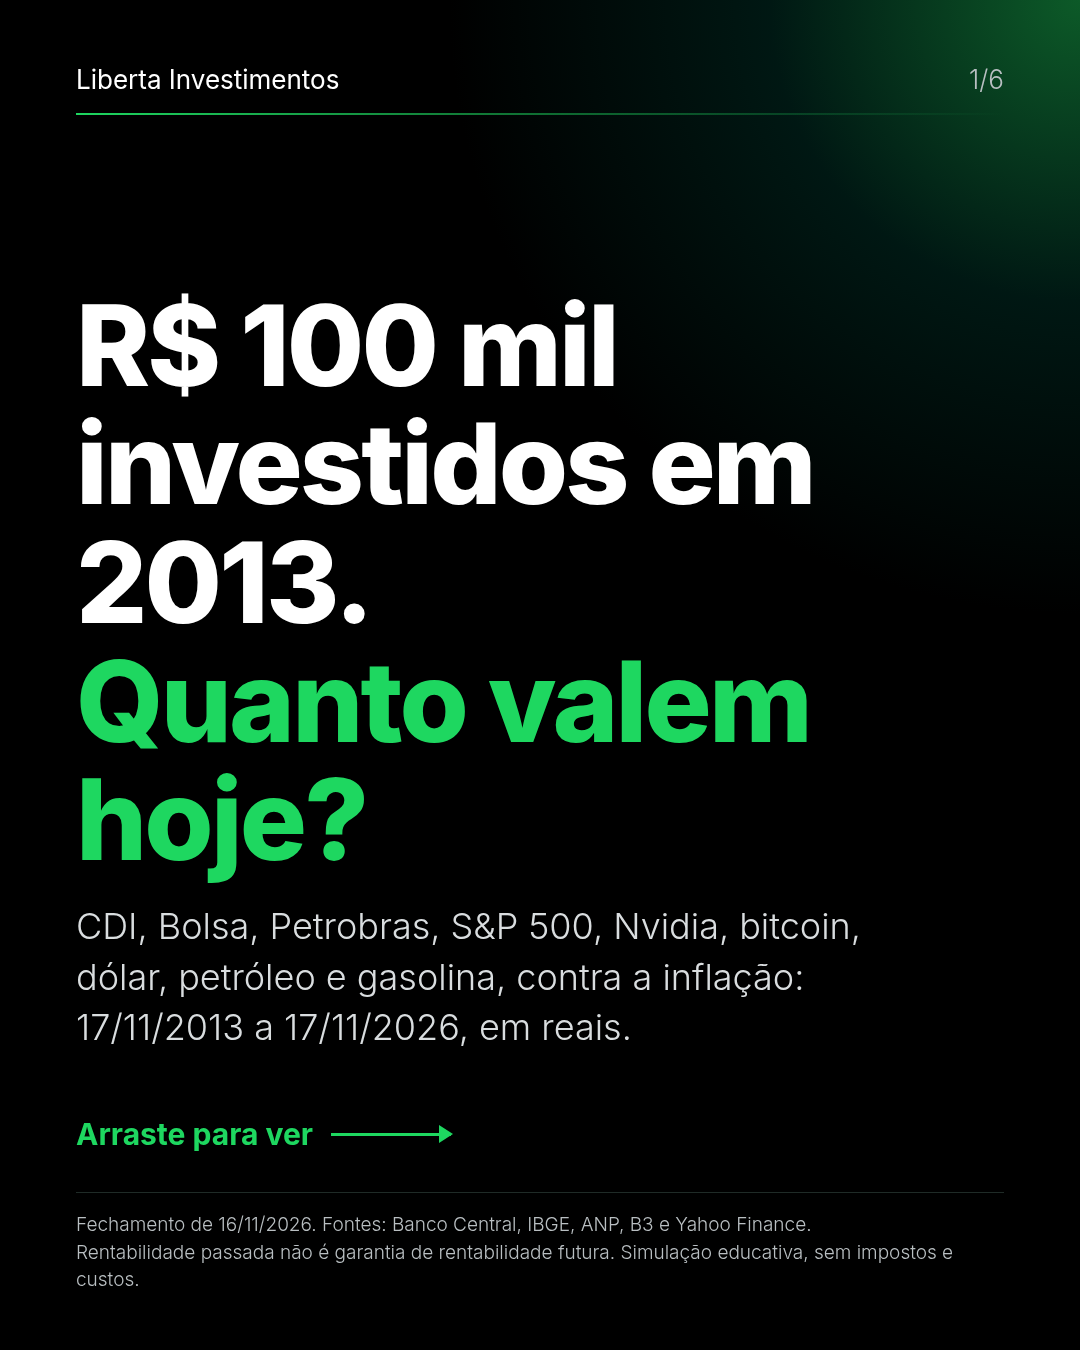
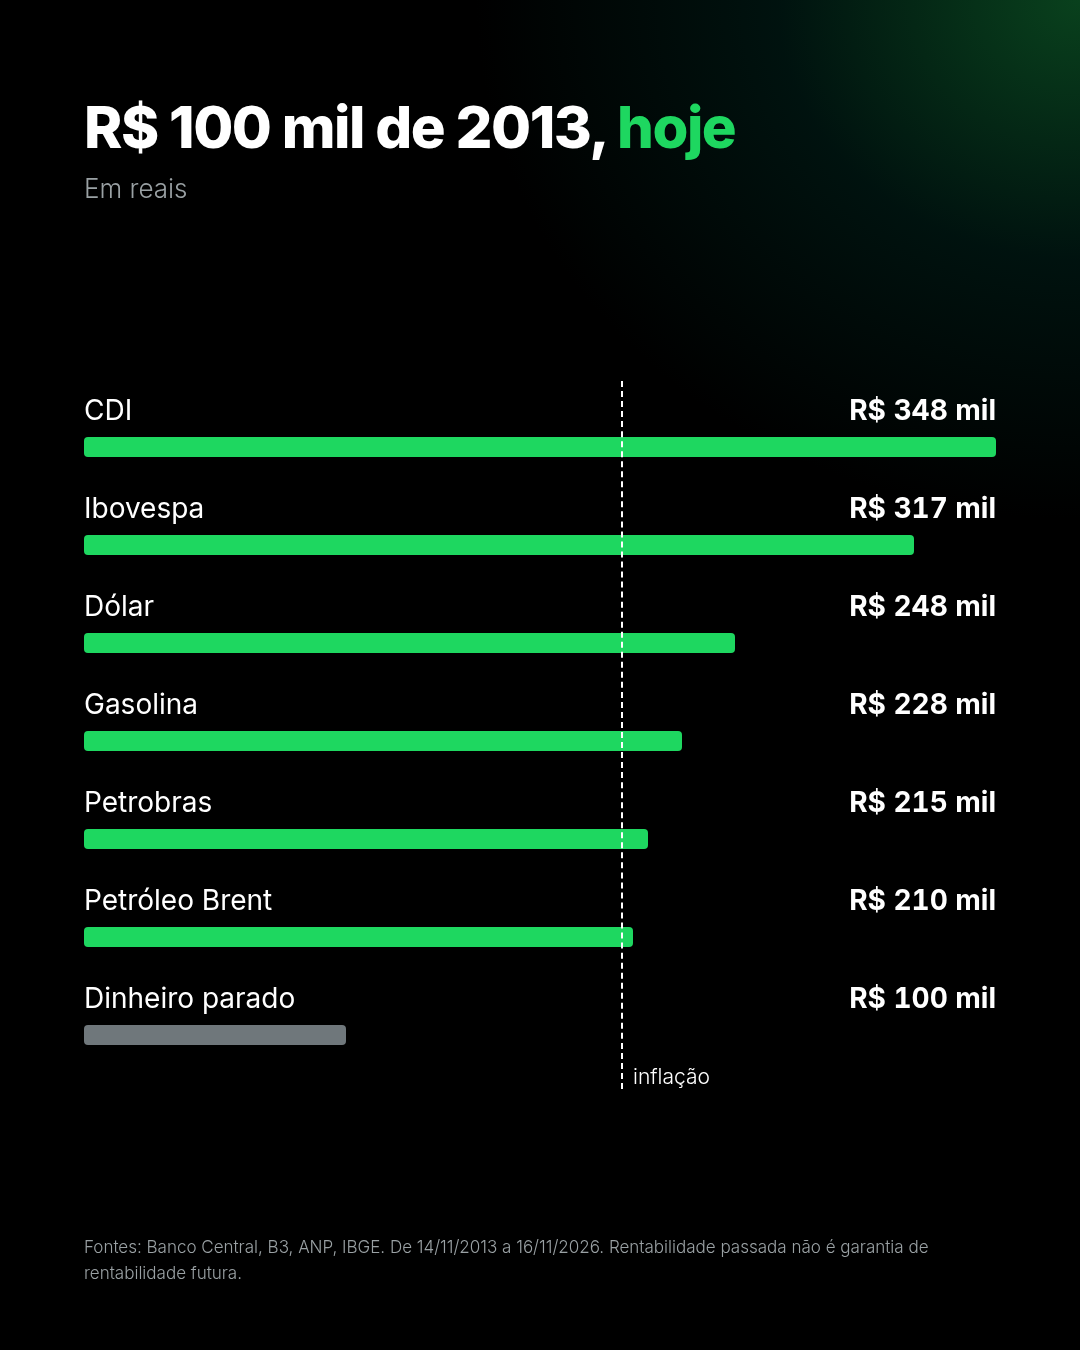
Só os gráficos: três cards minimalistas (nominal, descontado o IPCA, exterior)

diff --git a/cards.html b/cards.html
@@ -3,76 +3,28 @@
 <head>
 <meta charset="utf-8">
 <meta name="viewport" content="width=1080">
-<title>Cards 1080×1350</title>
-<link rel="stylesheet" href="https://fonts.googleapis.com/css2?family=Inter:wght@300;400;700;800;900&display=block">
+<title>Gráficos 1080×1350</title>
+<link rel="stylesheet" href="https://fonts.googleapis.com/css2?family=Inter:wght@300;400;700;800&display=block">
 <style>
-  /* Um card do carrossel por vez: cards.html?card=1..5. 1080×1350 (Instagram 4:5). */
-  :root { --verde: #1ed760; --ve1: #00342a; --ve2: #00231b; --cinza: #8f979c; --suave: #b9bfc2; }
+  /* Um gráfico por vez: cards.html?card=1..3. 1080×1350 (Instagram 4:5). */
+  :root { --verde: #1ed760; --cinza: #6f777b; --suave: #9aa1a4; }
   * { box-sizing: border-box; margin: 0; }
   html, body { width: 1080px; height: 1350px; overflow: hidden; background: #000; }
   body { font-family: "Inter", Arial, sans-serif; color: #fff; }
-  .card { position: relative; width: 1080px; height: 1350px; padding: 64px 76px 56px; display: flex; flex-direction: column;
-    background: radial-gradient(90% 70% at 100% 0%, rgba(30,215,96,.42) 0%, rgba(0,52,42,.45) 32%, rgba(0,0,0,0) 65%), #000; }
-  .topo { display: flex; justify-content: space-between; font-size: 26px; padding-bottom: 18px;
-    border-bottom: 2px solid transparent; border-image: linear-gradient(90deg, var(--verde), rgba(30,215,96,0)) 1; }
-  .topo .n { color: var(--suave); font-weight: 300; }
-  h1 { font-size: 62px; line-height: 1.06; font-weight: 800; letter-spacing: -.025em; margin-top: 56px; }
-  h1 em, h2 em, .v em { font-style: normal; color: var(--verde); }
-  .sub { font-size: 29px; line-height: 1.4; font-weight: 300; color: #d9dddf; margin-top: 22px; }
-  .corpo { flex: 1; display: flex; flex-direction: column; justify-content: center; }
-  .rodape { font-size: 19px; line-height: 1.45; color: var(--suave); font-weight: 300; padding-top: 18px;
-    border-top: 1px solid #1f2b27; }
-  .rodape b { color: #fff; font-weight: 700; }
-
-  /* capa */
-  .capa h1 { font-size: 112px; margin-top: auto; }
-  .capa .sub { font-size: 36px; max-width: 820px; }
-  .seta { margin: 64px 0 40px; font-size: 30px; color: var(--verde); font-weight: 700; display: flex; align-items: center; gap: 18px; }
-  .seta i { display: inline-block; width: 120px; height: 3px; background: var(--verde); position: relative; }
-  .seta i::after { content: ""; position: absolute; right: -2px; top: -8px; border: 9px solid transparent; border-left: 14px solid var(--verde); border-right: 0; }
-
-  /* barras */
-  .barras { display: grid; gap: 14px; position: relative; }
-  .linha .nome { font-size: 29px; font-weight: 700; display: flex; justify-content: space-between; align-items: baseline; }
-  .linha .nome span { font-weight: 800; font-variant-numeric: tabular-nums; }
-  .linha .nome small { font-size: 22px; font-weight: 300; color: var(--suave); margin-left: 10px; }
-  .trilho { position: relative; height: 26px; margin-top: 8px; }
-  .barra { position: absolute; left: 0; top: 0; height: 26px; border-radius: 5px; background: var(--verde); }
-  .barra.hipo { background: var(--ve1); box-shadow: inset 0 0 0 3px var(--verde); }
-  .barra.ref { background: var(--cinza); }
-  .barra.parado { background: #000; box-shadow: inset 0 0 0 3px var(--cinza); }
-  .leg { display: flex; flex-wrap: wrap; gap: 10px 26px; font-size: 21px; color: var(--suave); margin-top: 18px; margin-bottom: 30px; }
-  .leg span { display: inline-flex; align-items: center; gap: 10px; }
-  .leg i { display: inline-block; width: 30px; height: 16px; border-radius: 3px; background: var(--verde); }
-  .leg i.hipo { background: var(--ve1); box-shadow: inset 0 0 0 2px var(--verde); }
-  .leg i.tr { width: 0; height: 26px; border-radius: 0; background: none; border-left: 3px dashed #fff; margin: 0 6px; }
-  .leg i.parado { background: #000; box-shadow: inset 0 0 0 2px var(--cinza); }
-  .extra { font-size: 21px; color: var(--suave); font-weight: 300; margin-top: 6px; }
-  .extra b { color: #fff; font-weight: 700; }
-  .marco { position: absolute; top: -14px; bottom: -6px; border-left: 3px dashed #fff; }
-  .marco span { position: absolute; top: -38px; left: -4px; transform: translateX(-50%); white-space: nowrap; font-size: 20px; color: #fff; }
-
-  /* números grandes */
-  .grandes { display: grid; gap: 34px; }
-  .g { display: grid; grid-template-columns: 1fr auto; align-items: end; padding-bottom: 26px; border-bottom: 1px solid #1f2b27; }
-  .g .nome { font-size: 32px; font-weight: 700; }
-  .g .nome small { display: block; font-size: 22px; font-weight: 300; color: var(--suave); margin-top: 4px; }
-  .g .v { font-size: 64px; font-weight: 800; color: var(--verde); letter-spacing: -.02em; line-height: 1; text-align: right; font-variant-numeric: tabular-nums; }
-  .g .v small { display: block; font-size: 24px; color: #fff; font-weight: 400; letter-spacing: 0; margin-top: 8px; }
-  .nota { font-size: 24px; color: #d9dddf; font-weight: 300; line-height: 1.45; margin-top: 30px; padding: 22px 26px; background: var(--ve2); border-radius: 16px; }
-  .nota b { color: var(--verde); font-weight: 700; }
-
-  /* inflação */
-  .blocos { display: grid; gap: 30px; }
-  .bloco { background: var(--ve2); border: 1px solid #0d3a2e; border-radius: 20px; padding: 34px 38px; }
-  .bloco .v { font-size: 92px; font-weight: 900; letter-spacing: -.03em; line-height: 1; color: var(--verde); }
-  .bloco p { font-size: 29px; line-height: 1.4; font-weight: 300; margin-top: 14px; color: #e3e6e7; }
-
-  /* método */
-  .metodo { display: grid; gap: 22px; }
-  .metodo p { font-size: 26px; line-height: 1.42; font-weight: 300; color: #e3e6e7; padding-left: 26px; border-left: 3px solid var(--verde); }
-  .metodo p b { font-weight: 700; color: #fff; }
-  .aviso { margin-top: 34px; border: 2px solid var(--verde); border-radius: 18px; padding: 22px 28px; font-size: 24px; line-height: 1.4; }
+  .card { width: 1080px; height: 1350px; padding: 96px 84px 64px; display: flex; flex-direction: column;
+    background: radial-gradient(80% 55% at 100% 0%, rgba(30,215,96,.30) 0%, rgba(0,52,42,.35) 35%, rgba(0,0,0,0) 70%), #000; }
+  h1 { font-size: 58px; line-height: 1.08; font-weight: 800; letter-spacing: -.025em; }
+  h1 em { font-style: normal; color: var(--verde); }
+  .sub { font-size: 26px; font-weight: 300; color: var(--suave); margin-top: 14px; }
+  .graf { flex: 1; display: flex; flex-direction: column; justify-content: center; }
+  .barras { position: relative; display: grid; gap: 34px; }
+  .nome { display: flex; justify-content: space-between; align-items: baseline; font-size: 28px; font-weight: 400; }
+  .nome b { font-weight: 700; font-variant-numeric: tabular-nums; }
+  .barra { height: 20px; margin-top: 10px; border-radius: 4px; background: var(--verde); }
+  .barra.parado { background: var(--cinza); }
+  .marco { position: absolute; top: -12px; bottom: -44px; border-left: 2px dashed #fff; }
+  .marco span { position: absolute; bottom: 0; left: 10px; white-space: nowrap; font-size: 21px; color: #fff; font-weight: 300; }
+  .rodape { font-size: 17px; line-height: 1.5; color: var(--suave); font-weight: 300; }
 </style>
 </head>
 <body>
@@ -81,112 +33,36 @@
 (async function () {
   const R = await (await fetch("dados/resumo.json", { cache: "no-cache" })).json();
   const A = Object.fromEntries(R.ativos.map(a => [a.id, a]));
+  A.parado = R.parado;
   const n = +(new URLSearchParams(location.search).get("card") || 1);
   const nf = d => new Intl.NumberFormat("pt-BR", { minimumFractionDigits: d, maximumFractionDigits: d });
-  const mil = v => "R$ " + nf(v < 1e5 ? 1 : 0).format(v / 1e3) + " mil";
-  const mil1 = v => "R$ " + nf(1).format(v / 1e3) + " mil";
-  const mi = v => "R$ " + nf(1).format(v / 1e6) + (v >= 2e6 ? " milhões" : " milhão");
-  const pct = x => Math.abs(x) < 5e-4 ? "0%" : (x >= 0 ? "+" : "−") + nf(1).format(Math.abs(x * 100)) + "%";
-  const vezes = v => nf(v / R.capital >= 100 ? 0 : 1).format(v / R.capital) + "×";
+  const reais = v => v >= 1e6 ? "R$ " + nf(1).format(v / 1e6) + " mi" : "R$ " + nf(v < 1e5 ? 1 : 0).format(v / 1e3) + " mil";
   const data = s => s.slice(8, 10) + "/" + s.slice(5, 7) + "/" + s.slice(0, 4);
-  const mes = s => ["jan","fev","mar","abr","mai","jun","jul","ago","set","out","nov","dez"][+s.slice(5, 7) - 1] + "/" + s.slice(0, 4);
   const fim = ["ibov", "petr4", "sp500", "nvda", "ttwo"].map(k => A[k].d1).sort().pop();
-  const total = 6;
-  const topo = `<div class="topo"><span>Liberta Investimentos</span><span class="n">${n}/${total}</span></div>`;
-  const aviso = "Rentabilidade passada não é garantia de rentabilidade futura. Simulação educativa, sem impostos e custos.";
-  const fonte = t => `<div class="rodape">${t}<br>${aviso}</div>`;
-  const el = document.getElementById("card");
+  const nomes = { cdi: "CDI", ibov: "Ibovespa", dolar: "Dólar", gasolina: "Gasolina", petr4: "Petrobras", brent: "Petróleo Brent",
+                  parado: "Dinheiro parado", nvda: "Nvidia", btc: "Bitcoin", ttwo: "Take-Two", sp500: "S&P 500" };
+
+  function grafico(ids, chave, marco) {
+    const W = 912, max = Math.max(...ids.map(k => A[k][chave]));
+    const linhas = ids.map(k => `<div><div class="nome">${nomes[k]}<b>${reais(A[k][chave])}</b></div>
+      <div class="barra ${k === "parado" ? "parado" : ""}" style="width:${Math.max(4, A[k][chave] / max * W)}px"></div></div>`).join("");
+    const m = marco ? `<div class="marco" style="left:${marco[0] / max * W}px"><span>${marco[1]}</span></div>` : "";
+    return `<div class="graf"><div class="barras">${linhas}${m}</div></div>`;
+  }
+  const rodape = t => `<div class="rodape">${t} De 14/11/2013 a ${data(fim)}. Rentabilidade passada não é garantia de rentabilidade futura.</div>`;
+  const br = ["cdi", "ibov", "dolar", "gasolina", "petr4", "brent", "parado"];
   let h = "";
-
-  if (n === 1) {
-    el.classList.add("capa");
-    h = `${topo}
-      <h1>R$ 100 mil investidos em 2013.<br><em>Quanto valem hoje?</em></h1>
-      <p class="sub">CDI, Bolsa, Petrobras, S&P 500, Nvidia, bitcoin, dólar, petróleo e gasolina, contra a inflação: 17/11/2013 a 17/11/2026, em reais.</p>
-      <div class="seta">Arraste para ver <i></i></div>
-      ${fonte(`Fechamento de ${data(fim)}. Fontes: Banco Central, IBGE, ANP, B3 e Yahoo Finance.`)}`;
-  }
-
-  // Barras horizontais em escala linear a partir de zero; chave = "hoje" (nominal) ou "hoje_real" (poder de compra de 2013)
-  function barras(ids, chave, marcoValor, marcoTexto) {
-    const nomes = { cdi: "CDI", ibov: "Ibovespa", dolar: "Dólar", gasolina: "Gasolina", petr4: "Petrobras (PETR4)", brent: "Petróleo Brent",
-                    ipca: "Inflação (IPCA)", parado: "Dinheiro parado" };
-    const pega = k => k === "parado" ? R.parado : A[k];
-    const val = k => pega(k)[chave];
-    const varia = k => chave === "hoje" ? (k === "parado" ? 0 : A[k].var_brl) : (k === "parado" ? R.parado.real : A[k].real);
-    const max = Math.max(...ids.map(val)) * 1.04, W = 928;
-    const linhas = ids.map(k => {
-      const a = pega(k);
-      const cls = k === "ipca" ? "ref" : k === "parado" ? "parado" : a.tipo.startsWith("Preço") ? "hipo" : "";
-      const extra = k === "petr4" ? `<div class="extra">com dividendos reinvestidos: <b>${mil(chave === "hoje" ? a.hoje_tr : a.hoje_tr / R.fator_ipca)}</b></div>` : "";
-      return `<div class="linha"><div class="nome">${nomes[k]}<span>${mil(val(k))}<small>${pct(varia(k))}</small></span></div>
-        <div class="trilho"><div class="barra ${cls}" style="width:${val(k) / max * W}px"></div></div>${extra}</div>`;
-    }).join("");
-    return `<div class="corpo"><div class="barras">${linhas}
-      <div class="marco" style="left:${marcoValor / max * W}px"></div></div></div>`;
-  }
-  const legenda = t => `<div class="leg"><span><i></i>investimento</span><span><i class="hipo"></i>preço (hipotético)</span><span><i class="parado"></i>parado</span><span><i class="tr"></i>${t}</span></div>`;
-
-  if (n === 2) {
-    h = `${topo}
-      <h1>R$ 100 mil de 2013, hoje: <em>CDI, Bolsa, dólar e combustíveis</em></h1>
-      <p class="sub">Valor em reais em ${data(fim)}, sem descontar a inflação. A linha tracejada é o que só repõe o IPCA.</p>
-      ${legenda("repõe a inflação")}
-      ${barras(["cdi", "ibov", "dolar", "gasolina", "petr4", "brent", "ipca", "parado"], "hoje", R.ipca.necessario, "repõe a inflação")}
-      ${fonte("Fontes: Banco Central (CDI, dólar PTAX), B3 via Yahoo Finance, ANP, IBGE.")}`;
-  }
-
-  if (n === 3) {
-    h = `${topo}
-      <h1>Os mesmos R$ 100 mil, <em>descontada a inflação</em></h1>
-      <p class="sub">Quanto cada aplicação compra hoje, em dinheiro de 2013. Abaixo da linha tracejada, perdeu poder de compra.</p>
-      ${legenda("poder de compra de 2013")}
-      ${barras(["cdi", "ibov", "dolar", "gasolina", "petr4", "brent", "parado"], "hoje_real", R.capital, "poder de compra de 2013")}
-      ${fonte("Valores divididos pelo IPCA acumulado de nov/2013 a " + mes(R.ipca.mes1) + " (+" + nf(1).format(R.ipca.acumulada * 100) + "%). Fontes: Banco Central, B3, ANP, IBGE.")}`;
-  }
-
-  if (n === 4) {
-    const ids = ["nvda", "btc", "ttwo", "sp500"];
-    const nomes = { nvda: ["Nvidia", "ação, Nasdaq"], btc: ["Bitcoin", "criptomoeda"], ttwo: ["Take-Two", "dona da Rockstar Games"], sp500: ["S&P 500", "índice da Bolsa americana"] };
-    const rows = ids.map(k => `<div class="g"><div class="nome">${nomes[k][0]}<small>${nomes[k][1]}</small></div>
-      <div class="v">${mi(A[k].hoje)}<small>${vezes(A[k].hoje)} o valor aplicado · ${A[k].hoje_real >= 1e6 ? mi(A[k].hoje_real) : mil(A[k].hoje_real)} em dinheiro de 2013</small></div></div>`).join("");
-    const d = A.dolar;
-    h = `${topo}
-      <h1>R$ 100 mil de 2013, hoje: <em>ativos no exterior</em></h1>
-      <p class="sub">Para quem trocou reais por dólares em 2013 e trocou de volta em ${data(fim)}.</p>
-      <div class="corpo"><div class="grandes">${rows}</div>
-      <div class="nota">Parte do ganho é o câmbio: o dólar foi de <b>R$ ${nf(2).format(d.v0)}</b> para <b>R$ ${nf(2).format(A.nvda.fx1)}</b>. Preço da Nvidia corrigido pelos desdobramentos de 2021 e 2024.</div></div>
-      ${fonte("Fontes: Yahoo Finance (Nasdaq, S&P), CoinMetrics (bitcoin), Banco Central (PTAX).")}`;
-  }
-
-  if (n === 5) {
-    const i = R.ipca;
-    h = `${topo}
-      <h1>O que a inflação fez com <em>R$&nbsp;100&nbsp;mil</em></h1>
-      <p class="sub">IPCA acumulado de nov/2013 a ${mes(i.mes1)}: <b style="color:#fff;font-weight:700">${pct(i.acumulada)}</b>. Os preços mais que dobraram.</p>
-      <div class="corpo"><div class="blocos">
-        <div class="bloco"><div class="v">${mil1(i.poder_compra)}</div><p>é o que R$ 100 mil guardados desde 2013 compram hoje, em dinheiro da época. Uma perda de ${nf(0).format(i.perda * 100)}% do poder de compra.</p></div>
-        <div class="bloco"><div class="v">${mil1(i.necessario)}</div><p>é quanto você precisa ter hoje para comprar o mesmo que R$ 100 mil compravam em 2013.</p></div>
-      </div></div>
-      ${fonte("Fonte: IBGE (IPCA, número-índice).")}`;
-  }
-
-  if (n === 6) {
-    h = `${topo}
-      <h1>Como fizemos <em>a conta</em></h1>
-      <div class="corpo"><div class="metodo">
-        <p><b>Datas.</b> 17/11/2013 foi domingo, e 15/11 foi feriado no Brasil. Ativos brasileiros partem de 14/11/2013; os americanos, de 15/11. O fim é o fechamento de ${data(fim)}.</p>
-        <p><b>Câmbio.</b> Ativos cotados lá fora foram convertidos pelo dólar PTAX do Banco Central na compra e na venda.</p>
-        <p><b>Ações.</b> Só a variação do preço, corrigida por desdobramentos. Dividendos aparecem à parte, na Petrobras.</p>
-        <p><b>CDI.</b> Rentabilidade acumulada dia a dia, com juros sobre juros.</p>
-        <p><b>Gasolina e petróleo.</b> Comparação de preços: R$ 100 mil seriam comprar o produto em 2013 e vendê-lo hoje.</p>
-      </div>
-      <div class="aviso">${aviso} Não é recomendação de investimento.</div></div>
-      <div class="rodape">Fontes: Banco Central, IBGE, ANP, B3, S&P Dow Jones Indices e Nasdaq via Yahoo Finance, CoinMetrics.</div>`;
-  }
-  el.innerHTML = h;
+  if (n === 1) h = `<h1>R$ 100 mil de 2013, <em>hoje</em></h1><p class="sub">Em reais</p>
+    ${grafico(br, "hoje", [R.ipca.necessario, "inflação"])}
+    ${rodape("Fontes: Banco Central, B3, ANP, IBGE.")}`;
+  if (n === 2) h = `<h1>R$ 100 mil de 2013, hoje, <em>descontada a inflação</em></h1><p class="sub">Em reais de 2013, corrigidos pelo IPCA</p>
+    ${grafico(br, "hoje_real", [R.capital, "poder de compra de 2013"])}
+    ${rodape("Fontes: Banco Central, B3, ANP, IBGE.")}`;
+  if (n === 3) h = `<h1>R$ 100 mil de 2013, hoje: <em>no exterior</em></h1><p class="sub">Em reais, com a variação do dólar</p>
+    ${grafico(["nvda", "btc", "ttwo", "sp500"], "hoje")}
+    ${rodape("Fontes: Yahoo Finance, CoinMetrics, Banco Central.")}`;
+  document.getElementById("card").innerHTML = h;
   await document.fonts.ready;
-  document.body.dataset.pronto = "1";
 })();
 </script>
 </body>

diff --git a/index.html b/index.html
@@ -4,47 +4,21 @@
 <meta charset="utf-8">
 <meta name="viewport" content="width=device-width, initial-scale=1">
 <title>R$ 100 mil de 2013 hoje</title>
-<meta name="description" content="Carrossel e planilha: quanto valem hoje R$ 100 mil aplicados em 17/11/2013.">
-<link rel="stylesheet" href="https://fonts.googleapis.com/css2?family=Inter:wght@300;400;700;800&display=swap">
 <style>
-  :root { --verde: #1ed760; --suave: #a7adb0; color-scheme: dark; }
-  * { box-sizing: border-box; }
-  body { margin: 0; background: #000; color: #fff; font-family: "Inter", Arial, sans-serif; line-height: 1.5; }
-  main { max-width: 1100px; margin: 0 auto; padding: 0 16px 64px; }
-  .marca { display: flex; justify-content: space-between; padding: 22px 0 10px; font-size: .92rem;
-    border-bottom: 1px solid transparent; border-image: linear-gradient(90deg, var(--verde), rgba(30,215,96,0)) 1; }
-  h1 { font-size: clamp(1.7rem, 4.5vw, 2.6rem); line-height: 1.1; font-weight: 800; letter-spacing: -.02em; margin: 36px 0 12px; }
-  h1 em { font-style: normal; color: var(--verde); }
-  p { margin: 0 0 18px; color: #d7dbdd; font-weight: 300; max-width: 70ch; }
-  .botoes { display: flex; flex-wrap: wrap; gap: 10px; margin-bottom: 32px; }
-  .botoes a { color: #000; background: var(--verde); font-weight: 700; border-radius: 999px; padding: 9px 18px; text-decoration: none; font-size: .95rem; }
-  .botoes a.sec { background: transparent; color: #fff; border: 1px solid var(--verde); font-weight: 400; }
-  .grade { display: grid; grid-template-columns: repeat(auto-fill, minmax(300px, 1fr)); gap: 20px; }
-  figure { margin: 0; }
-  figure img { width: 100%; height: auto; display: block; border-radius: 10px; border: 1px solid #1d2a26; }
-  figcaption { display: flex; justify-content: space-between; font-size: .85rem; color: var(--suave); margin-top: 8px; }
-  figcaption a { color: var(--verde); }
-  footer { margin-top: 40px; color: var(--suave); font-size: .82rem; font-weight: 300; }
+  body { margin: 0; background: #000; color: #9aa1a4; font-family: Arial, sans-serif; }
+  main { max-width: 1120px; margin: 0 auto; padding: 32px 16px; display: grid; gap: 16px; grid-template-columns: repeat(auto-fit, minmax(300px, 1fr)); }
+  a { display: block; }
+  img { width: 100%; height: auto; display: block; }
+  footer { text-align: center; padding: 8px 16px 32px; font-size: 13px; }
+  footer a { display: inline; color: #1ed760; }
 </style>
 </head>
 <body>
 <main>
-  <div class="marca"><span>Liberta Investimentos</span><span style="color:var(--suave)">Educação financeira</span></div>
-  <h1>R$ 100 mil investidos em 2013: <em>quanto valem hoje</em></h1>
-  <p>Carrossel de 6 cards para o feed do Instagram (1080 × 1350). Clique em cada um para baixar o arquivo em tamanho original.</p>
-  <div class="botoes">
-    <a href="dados/liberta-dados.xlsx" download>Baixar planilha (.xlsx)</a>
-    <a href="completo.html" class="sec">Versão completa, com gráficos interativos</a>
-  </div>
-  <div class="grade" id="grade"></div>
-  <footer>Rentabilidade passada não é garantia de rentabilidade futura. Simulação educativa, sem impostos e custos; não é recomendação de investimento.</footer>
+  <a href="cards/card-1.png" download="100mil-2013-hoje.png"><img src="cards/card-1.png" alt="R$ 100 mil de 2013, hoje, em reais" width="1080" height="1350"></a>
+  <a href="cards/card-2.png" download="100mil-2013-descontada-inflacao.png"><img src="cards/card-2.png" alt="R$ 100 mil de 2013, hoje, descontada a inflação" width="1080" height="1350"></a>
+  <a href="cards/card-3.png" download="100mil-2013-exterior.png"><img src="cards/card-3.png" alt="R$ 100 mil de 2013, hoje, no exterior" width="1080" height="1350"></a>
 </main>
-<script>
-  const nomes = ["Capa", "CDI, Bolsa, dólar e combustíveis", "Descontada a inflação", "Ativos no exterior", "Inflação", "Como fizemos a conta"];
-  const v = Date.now().toString(36);
-  document.getElementById("grade").innerHTML = nomes.map((n, i) => `
-    <figure><a href="cards/card-${i + 1}.png" download="liberta-100mil-${i + 1}.png"><img src="cards/card-${i + 1}.png?v=${v}" alt="Card ${i + 1}: ${n}" width="1080" height="1350" loading="lazy"></a>
-    <figcaption><span>${i + 1}/6 · ${n}</span><a href="cards/card-${i + 1}.png" download="liberta-100mil-${i + 1}.png">baixar</a></figcaption></figure>`).join("");
-</script>
+<footer><a href="dados/liberta-dados.xlsx" download>planilha</a></footer>
 </body>
 </html>

diff --git a/README.md b/README.md
@@ -2,8 +2,8 @@
 
 Quanto valem em 17/11/2026 R$ 100 mil aplicados em 17/11/2013 em CDI, Ibovespa, Petrobras (PETR4), S&P 500, Nvidia, Take-Two, bitcoin, dólar, Brent e gasolina, contra o IPCA.
 
-- Página: https://guivaraschinalves.github.io/liberta-dados/ (carrossel do Instagram) e `completo.html` (gráficos interativos)
-- Cards 1080×1350: [`cards/`](cards/), gerados por `scripts/cards.sh` a partir de `cards.html`
+- Página: https://guivaraschinalves.github.io/liberta-dados/ (três gráficos para o Instagram) e `completo.html` (gráficos interativos)
+- Gráficos 1080×1350: [`cards/`](cards/), gerados por `scripts/cards.sh` a partir de `cards.html`
 - Planilha: [`dados/liberta-dados.xlsx`](dados/liberta-dados.xlsx) (as colunas calculadas são fórmulas; mude o capital em `B3`)
 - Tabela em texto: [`dados/comparacao.csv`](dados/comparacao.csv)
 
